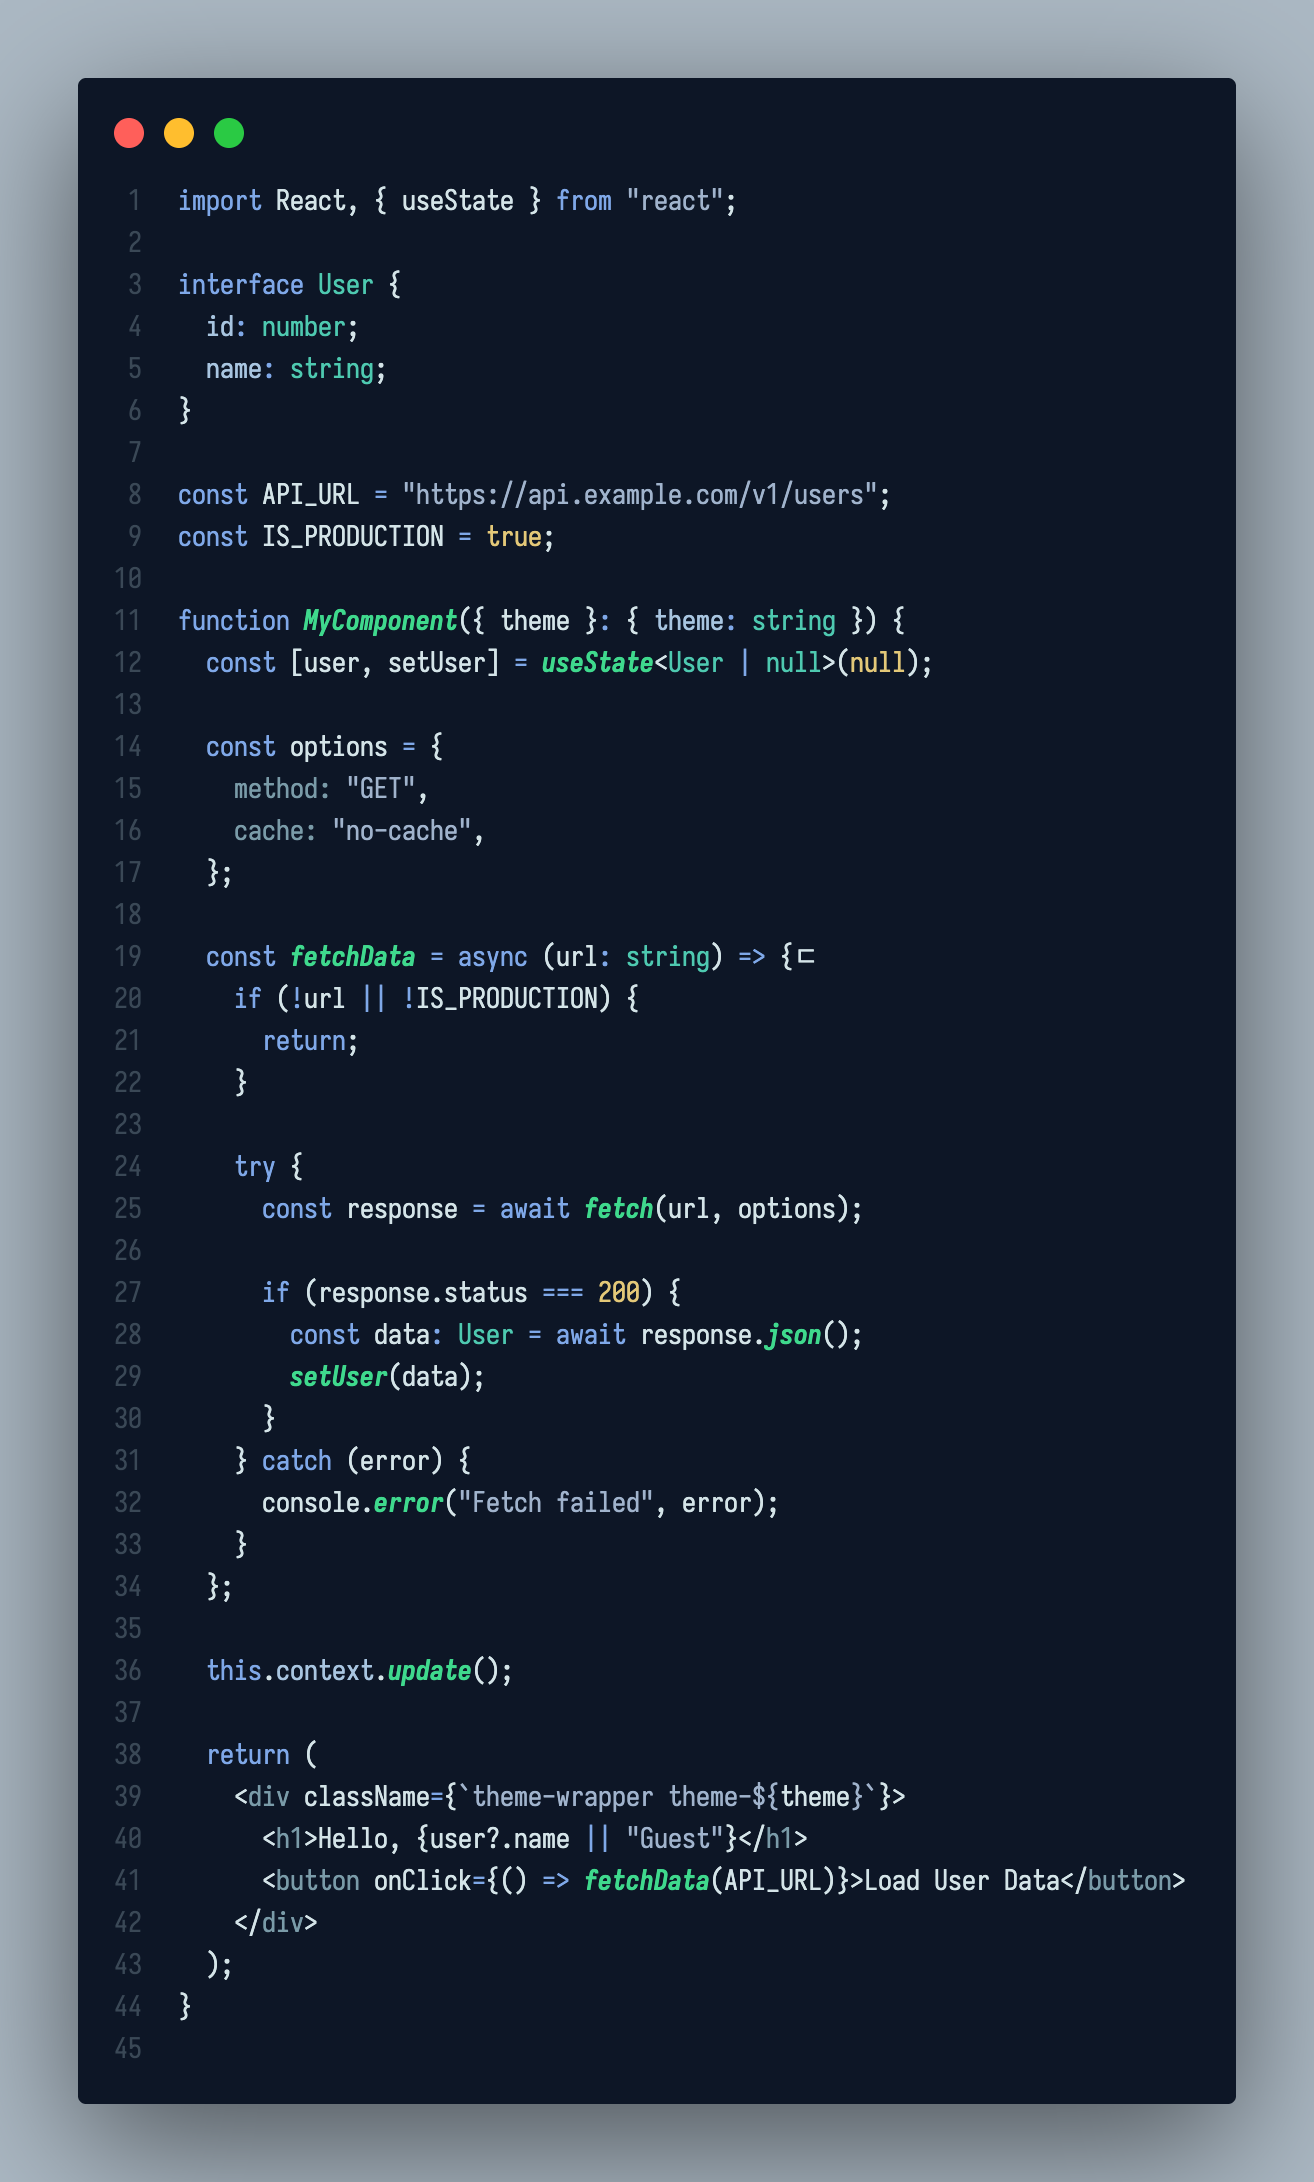
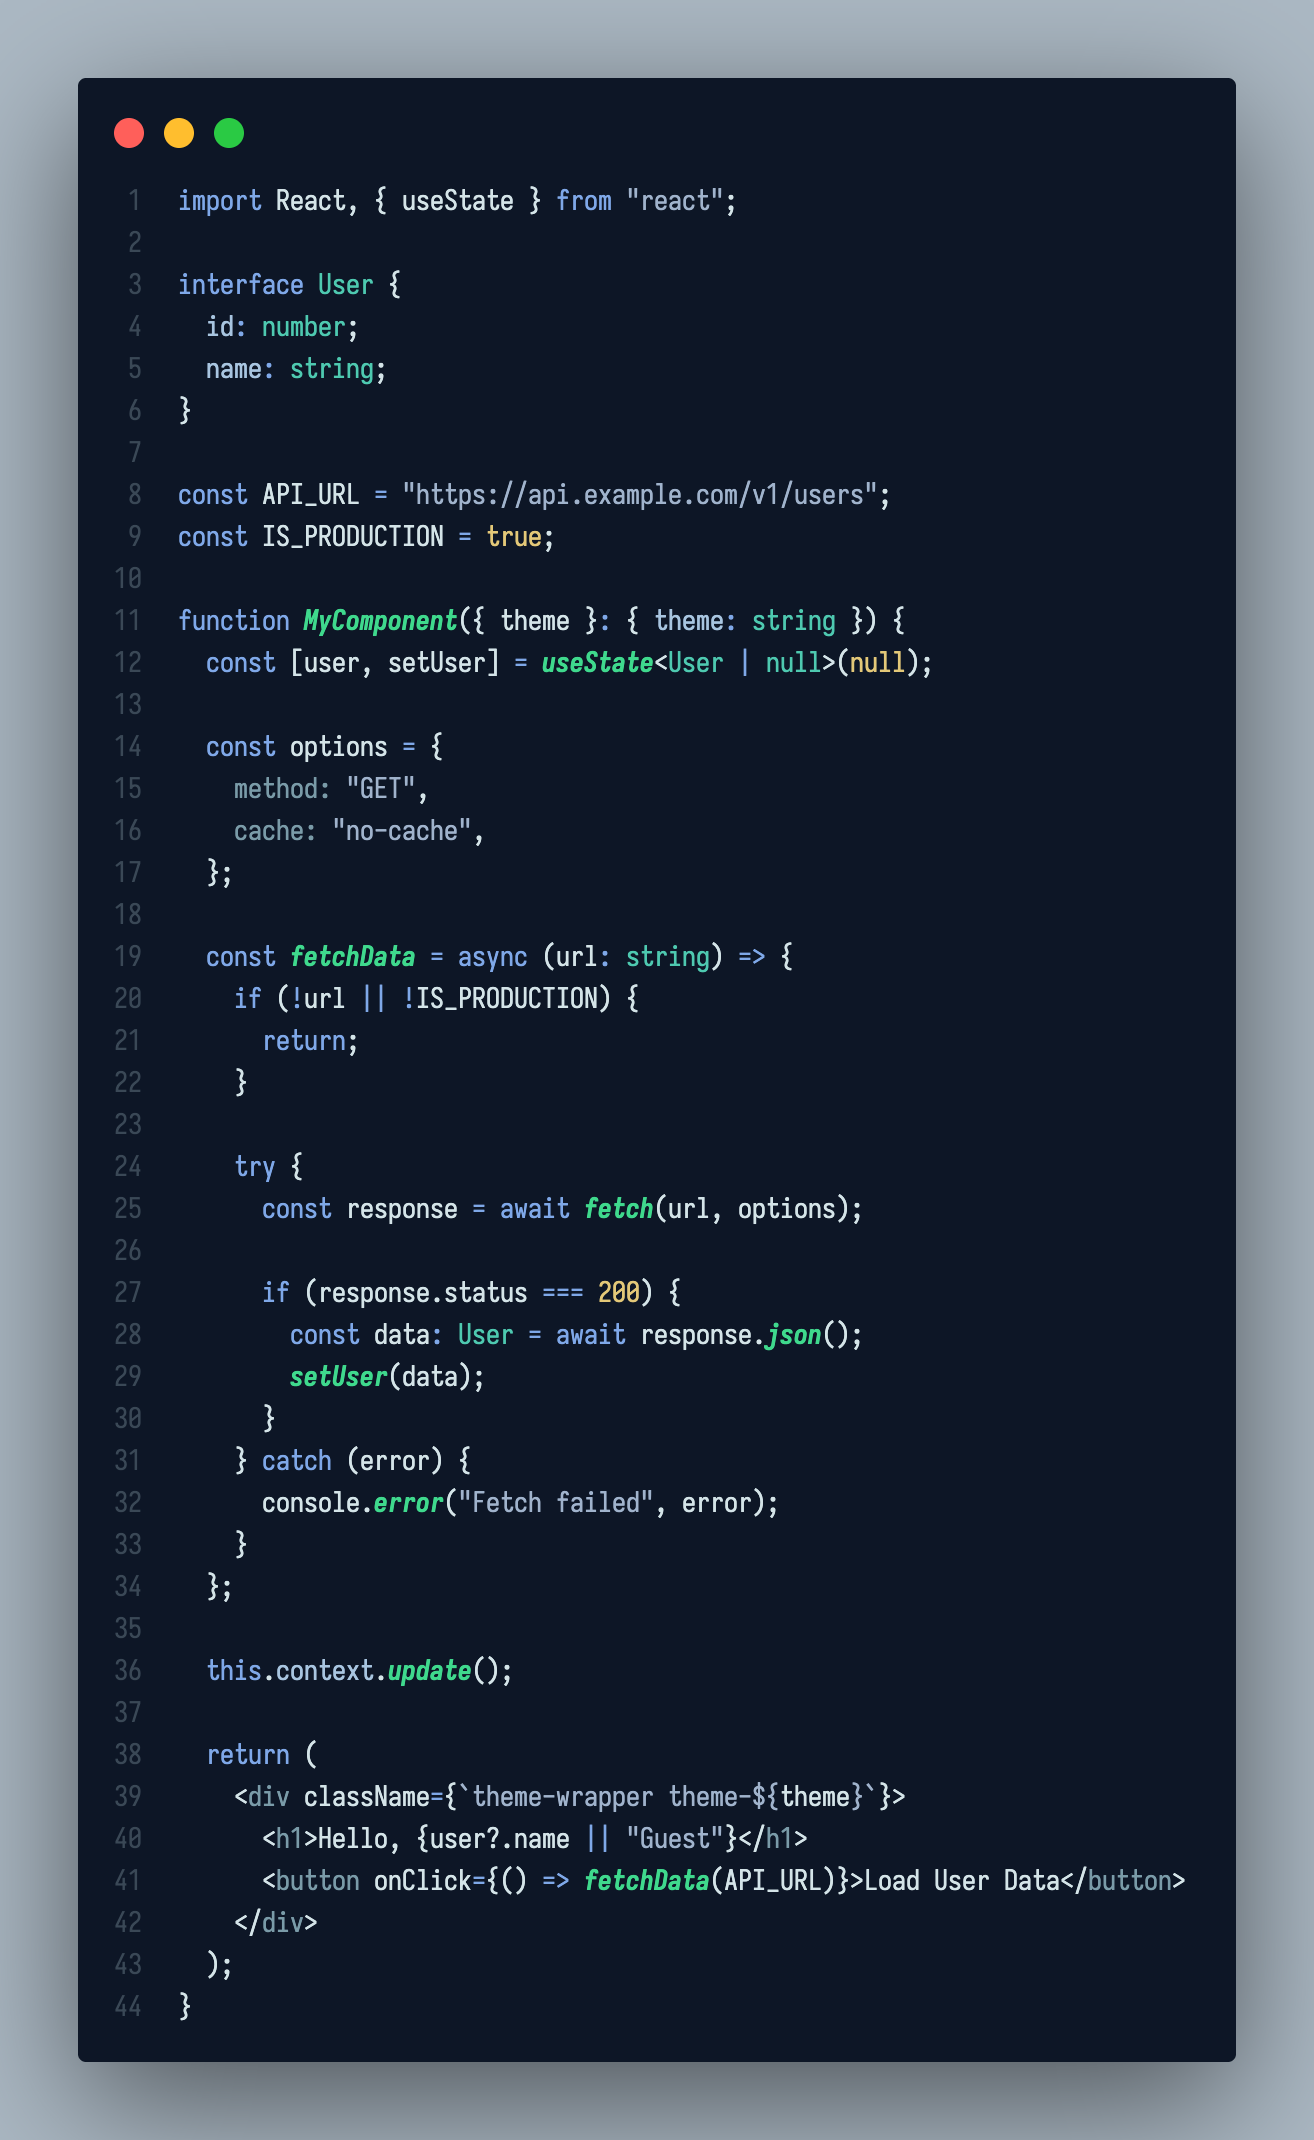
Fix: 예시코드에 'ㄷ' 들어간 부분 제거 ㅋㅋ

diff --git a/previews/example.tsx b/previews/example.tsx
@@ -17,7 +17,7 @@ function MyComponent({ theme }: { theme: string }) {
     cache: "no-cache",
   };
 
-  const fetchData = async (url: string) => {ㄷ
+  const fetchData = async (url: string) => {
     if (!url || !IS_PRODUCTION) {
       return;
     }
